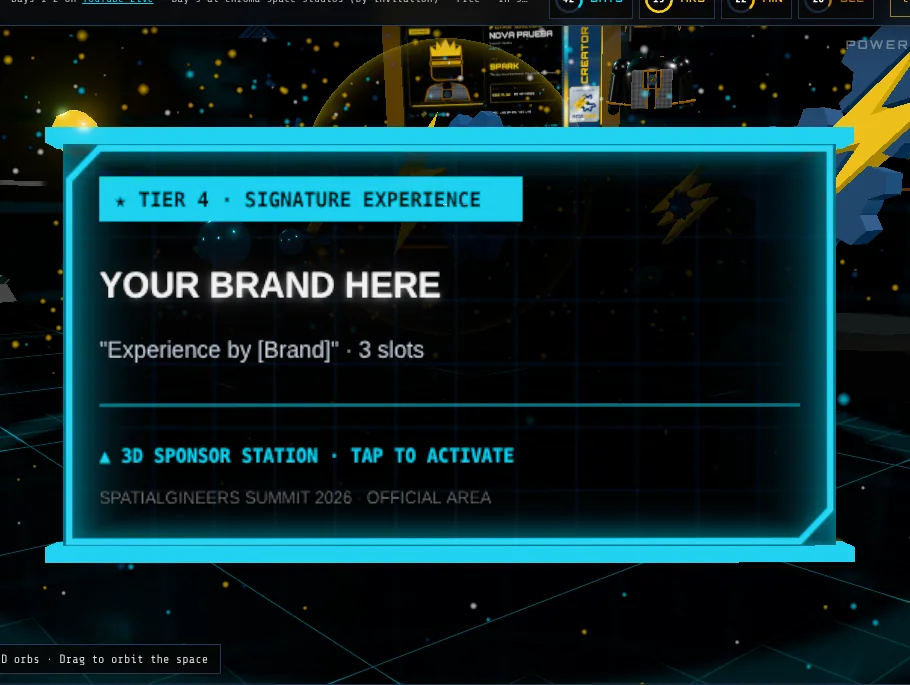
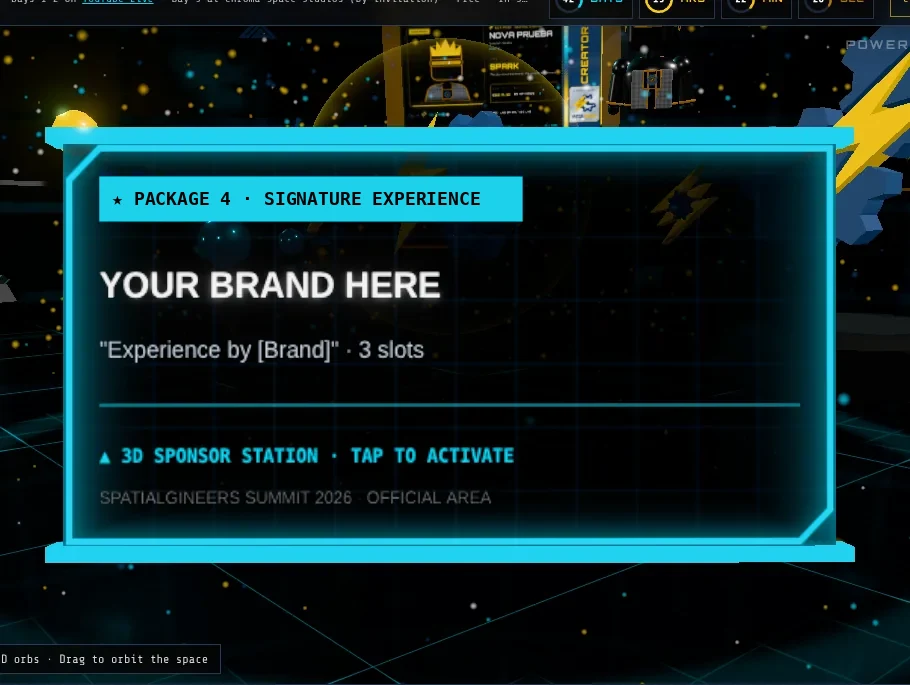
Sponsor placement shots and admin tier list say Paquete, not Tier
Claude-Session: https://claude.ai/code/session_01FDbDkxDeyXwFzriNaGtfgs

Changed region(s): [[0.1231, 0.2759, 0.5538, 0.3066]]

diff --git a/src/components/admin/SummitCMSManager.tsx b/src/components/admin/SummitCMSManager.tsx
@@ -1162,7 +1162,7 @@ export const SummitCMSManager: React.FC<SummitCMSManagerProps> = ({
               <div key={tier.id} className="p-4 bg-[var(--sgx-bg)] border border-[var(--sgx-secondary)] space-y-2 rounded-xl">
                 <div className="flex items-center justify-between">
                   <span className="text-sm font-bold text-white uppercase font-['Orbitron',sans-serif]">
-                    TIER {tier.tierNumber}: {tier.name}
+                    PAQUETE {tier.tierNumber}: {tier.name}
                   </span>
                   <span className="text-xs font-mono font-bold text-[var(--sgx-accent)]">{tier.priceRange}</span>
                 </div>
